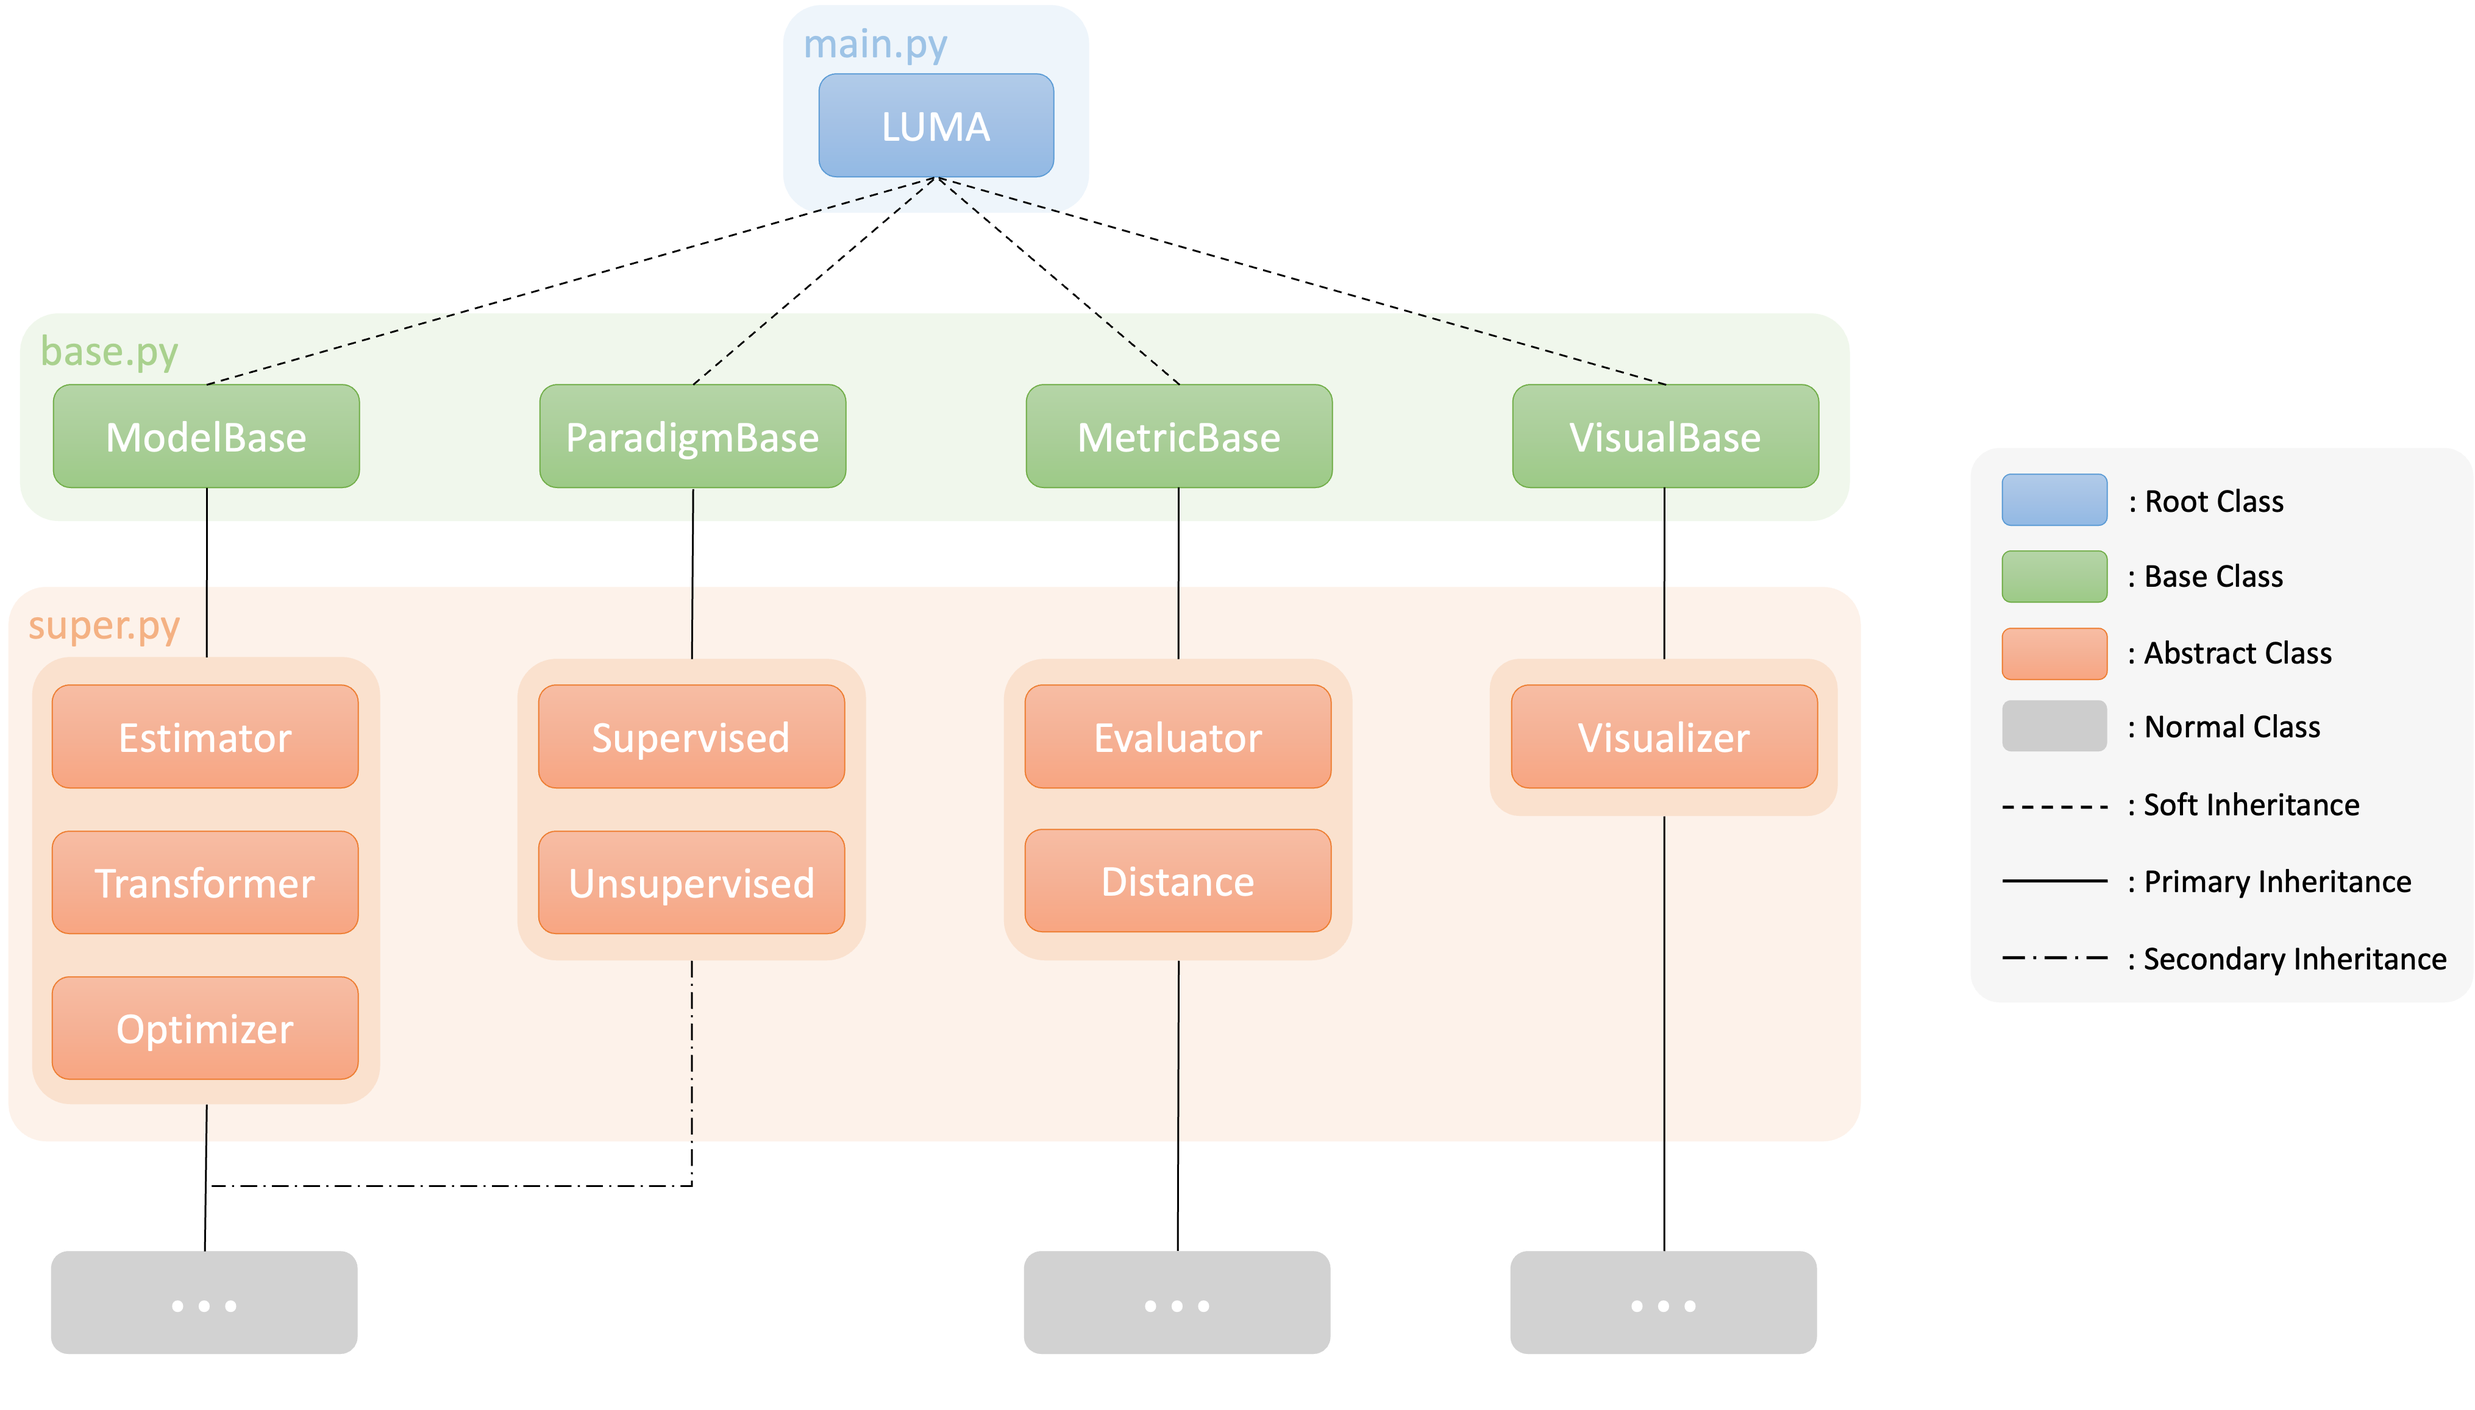
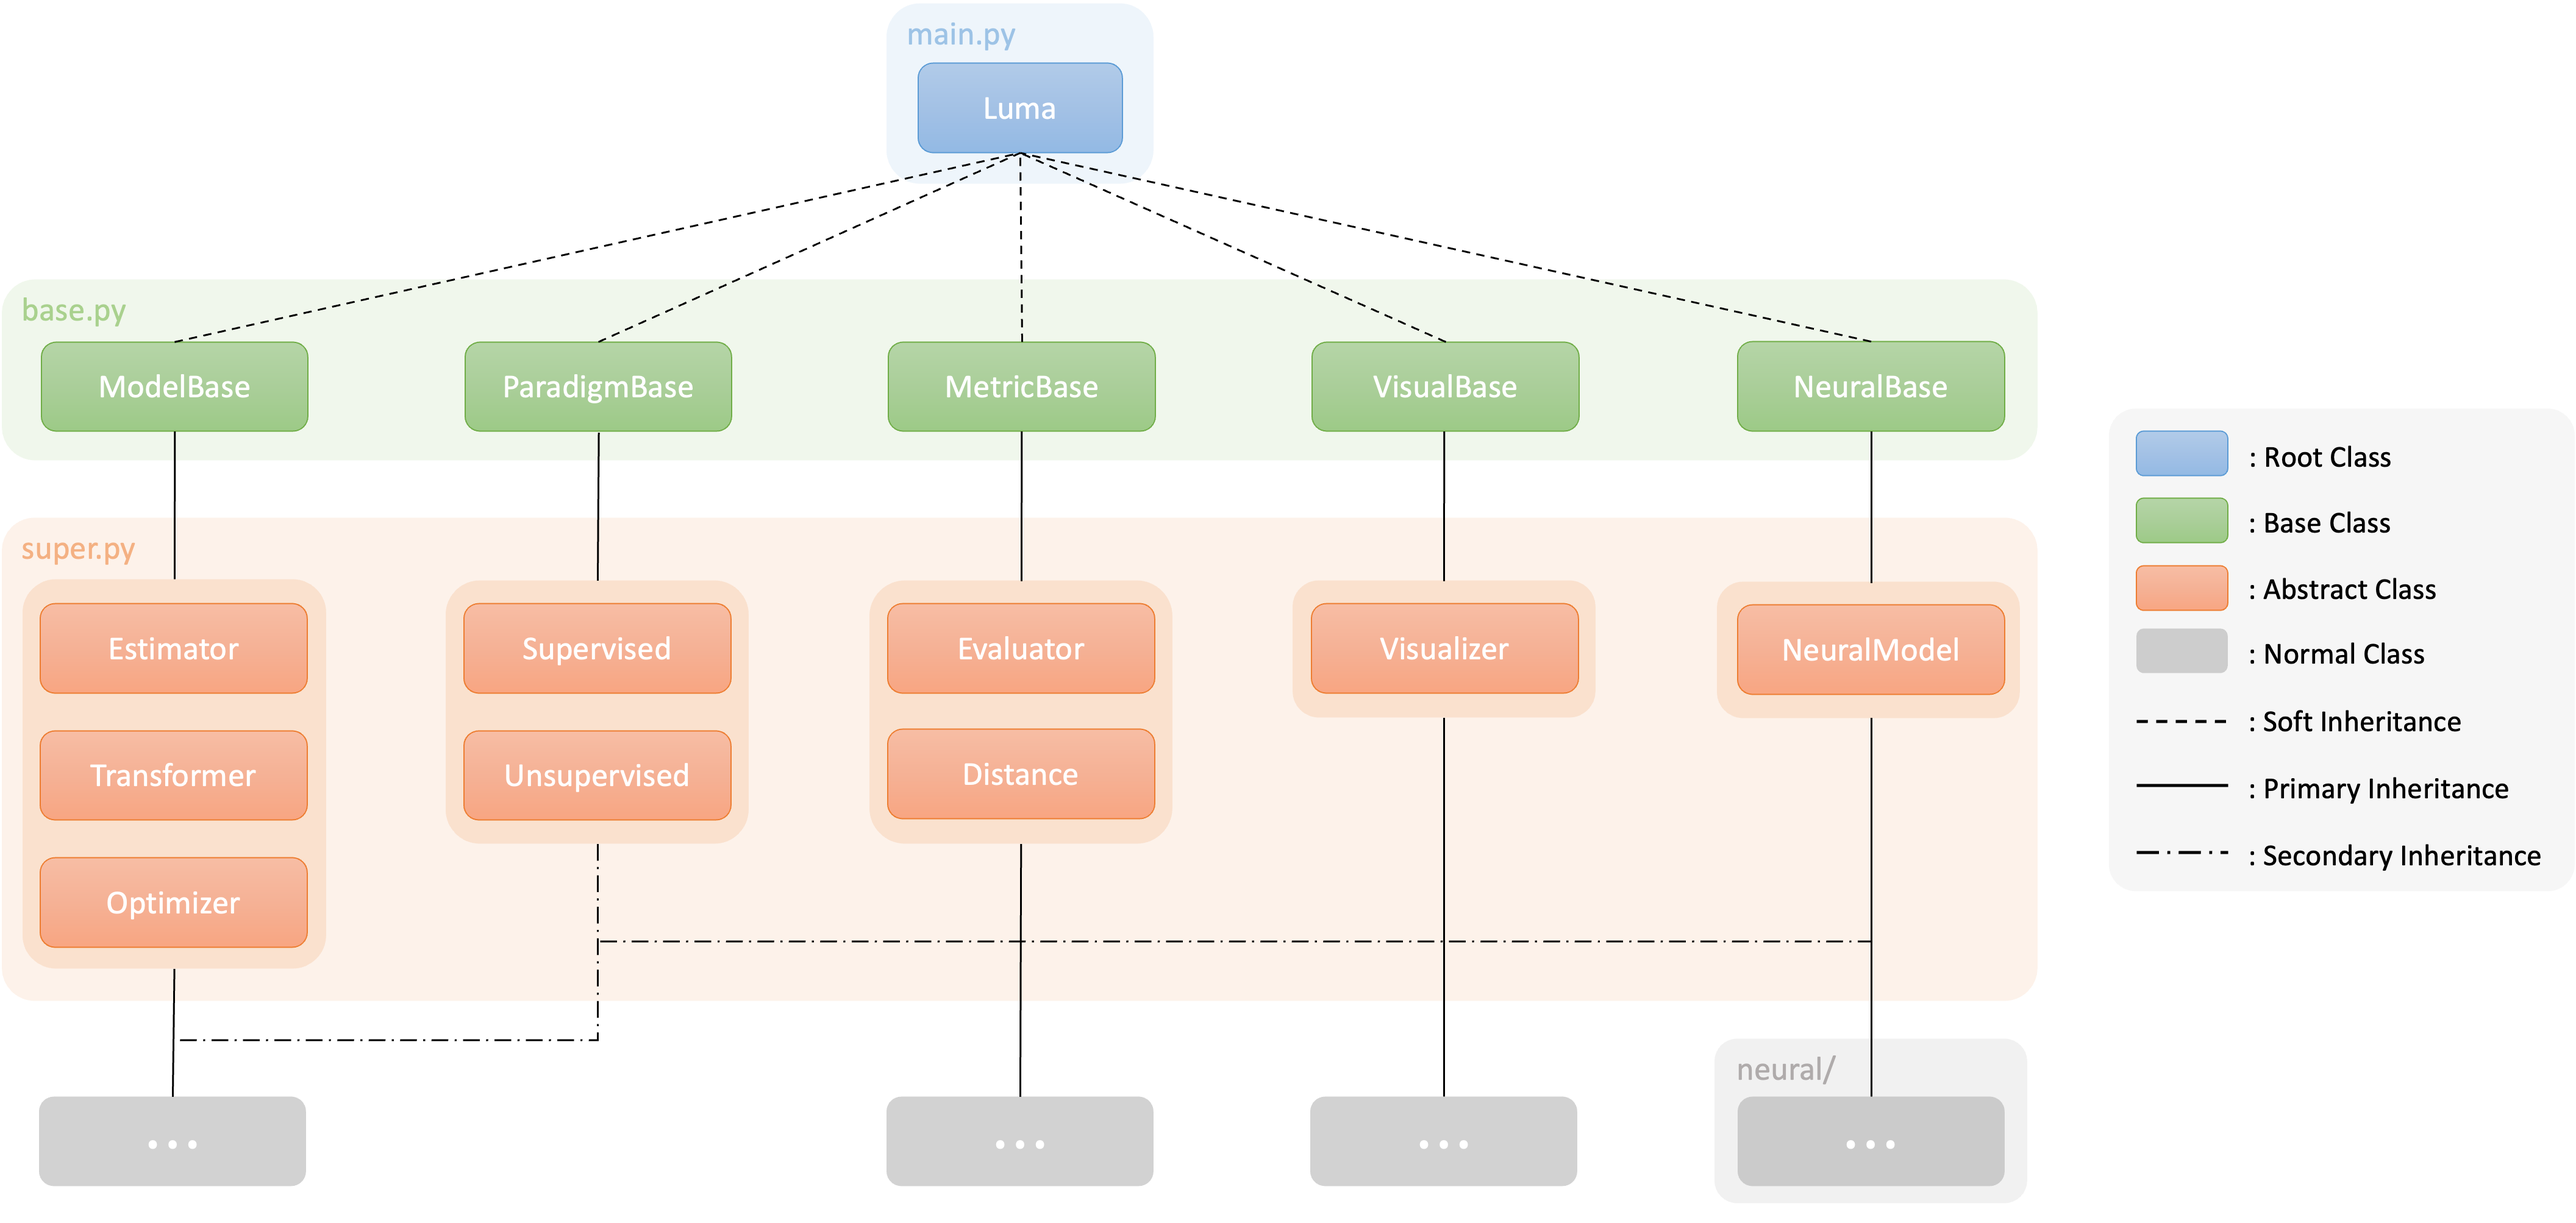
modified structure.png

diff --git a/luma/neural/network.py b/luma/neural/network.py
@@ -20,7 +20,7 @@ from luma.neural.optimizer import SGDOptimizer
 from luma.neural.loss import CrossEntropy
 
 
-__all__ = "MLP"  # TODO: Future implementations: CNN, RNN, ...
+__all__ = ("MLP", "SimpleCNN")  # TODO: Future implementations: SimpleCNN, RNN, ...
 
 
 class MLP(Estimator, Supervised, NeuralModel):
@@ -247,3 +247,6 @@ class MLP(Estimator, Supervised, NeuralModel):
     ) -> float:
         y_pred = self.predict(X, argmax=argmax)
         return metric.score(y_true=y, y_pred=y_pred)
+
+
+class SimpleCNN(Estimator, Supervised, NeuralModel): ...
